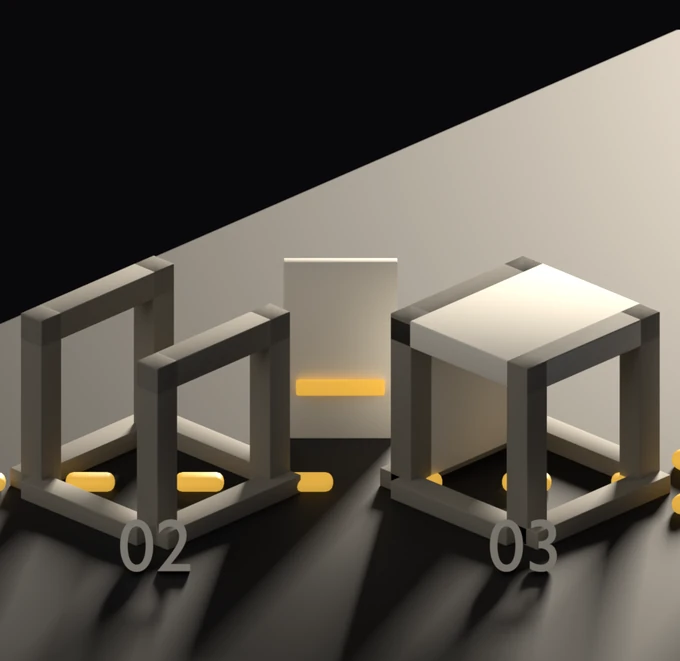
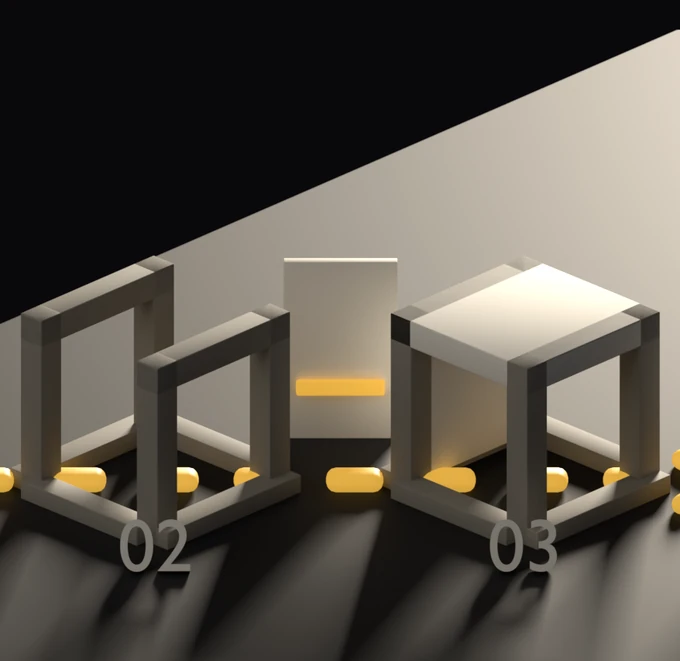
feat(da): plots a base carree, casiers a poignee, pointille de la chaine epaissi
LES ASSETS SERVIS DES TROIS SCENES CORRIGEES, plus la seule ligne de code que ce
lot rend fausse. Aucun composant ne change de geometrie : les vingt paliers
gardent EXACTEMENT leurs dimensions, donc aucune boite reservee ne bouge et il n'y
a pas de saut de mise en page a attendre.

-- CE QUI CHANGE DANS LES IMAGES --------------------------------------------
  metier-asso-{370,650,880,1100,1480}.webp
      Une base carree debordante sous chacun des quatre plots, et deux bandes sur
      le ballon. Le releve de lecture rendait « objets geometriques abstraits » et
      « Aucun » au metier : la cause etait que la forme de metier et la primitive
      coincident (un plot EST un cone, un ballon EST une sphere). Mesure a 370 px,
      la vraie plus petite largeur CSS : base 17,58 px de cote, collet 3,64 px,
      marche 3,89 px, bande 3,71 px, ecart des bandes 4,63 px.

  metier-sport-{370,650,880,1100,1480}.webp
      Une poignee horizontale sur chacun des trois vantails fermes. Les quatre
      casiers etaient comptes exactement et lus « facon histogramme » ; une barre
      de diagramme n'a pas de poignee. A 370 px : 8,79 x 3,71 px sur une porte de
      13,29 x 38,91 px.

  hiw-chaine-{760,1120,1480,2240}.webp
  hiw-etape2-{340,440,680,878}.webp
      Le pointille est plus EPAIS et plus SERRE. Constat du client a l'oeil : les
      tirets se perdaient entre les stations et l'ancien trait continu se lisait
[…]

diff --git a/components/HowItWorks.tsx b/components/HowItWorks.tsx
@@ -188,14 +188,24 @@ const X_STATIONS = [0.1278, 0.3409, 0.5541, 0.7673] as const;
  * POINTILLE dans l'image, puisque toute l'image est pointillee. Ce que le rail
  * continue de coder juste, et c'est le seul point qui portait vraiment, est le
  * DETACHEMENT : la queue est separee par 50,4 px a 1 120 quand un vide ordinaire du
- * pointille en fait 38,7, et rien ne pointe vers elle — la fleche s'arrete a la
+ * pointille en fait 22,7, et rien ne pointe vers elle — la fleche s'arrete a la
  * station 04. Un rail continu jusqu'au bout annoncerait toujours une suite acquise.
  *
+ * ── LE 22,7 ETAIT 38,7, ET C'EST LA SEULE LIGNE QUE LA PASSE SUIVANTE A CHANGEE ──
+ * Constat du client a l'oeil : les tirets SE PERDAIENT entre les stations, et l'ancien
+ * trait continu se lisait mieux comme un parcours. Ils ont donc ete EPAISSIS (section
+ * 0,038 x 0,024 -> 0,048 x 0,031, epaisseur vue 15,9 -> 20,3 px a 1 120) et SERRES
+ * (periode 0,176 -> 0,145, part pleine 0,45 -> 0,62 : 7 tirets deviennent 8, le vide
+ * tombe de 38,7 a 22,7 px). Le rapport de detachement de la queue passe donc de 1,30x
+ * a 2,22x : l'argument ci-dessus est RENFORCE par ce changement, pas affaibli.
+ *
  * LES QUATRE ABSCISSES DE X_STATIONS SONT INCHANGEES A L'IDENTIQUE — verifie sur le
- * `chaine.ancres.json` re-emis : 0,1278 / 0,3409 / 0,5541 / 0,7673, et les deux
- * ancres d'etiquette valent toujours (0,7673 ; 0,2407) et (0,9202 ; 0,3534). Le
- * rail, ses quatre tirets et la grille de colonnes ne visent donc rien qui ait
- * bouge, et ce lot ne les a pas touches.
+ * `chaine.ancres.json` re-emis APRES l'epaississement, au cadre maitre 2240x1349 :
+ * 0,1278 / 0,3409 / 0,5541 / 0,7673, et les deux ancres d'etiquette valent toujours
+ * (0,7673 ; 0,2407) et (0,9202 ; 0,3534). C'est une propriete de construction et non
+ * une chance : `resoudre()` ne lit que JOUR, JOUR_QUEUE, QUEUE, EP et la
+ * demi-profondeur du socle, et aucun parametre du pointille n'y entre. Le rail, ses
+ * quatre tirets et la grille de colonnes ne visent donc rien qui ait bouge.
  */
 const X_QUEUE = X_STATIONS[3];
 
